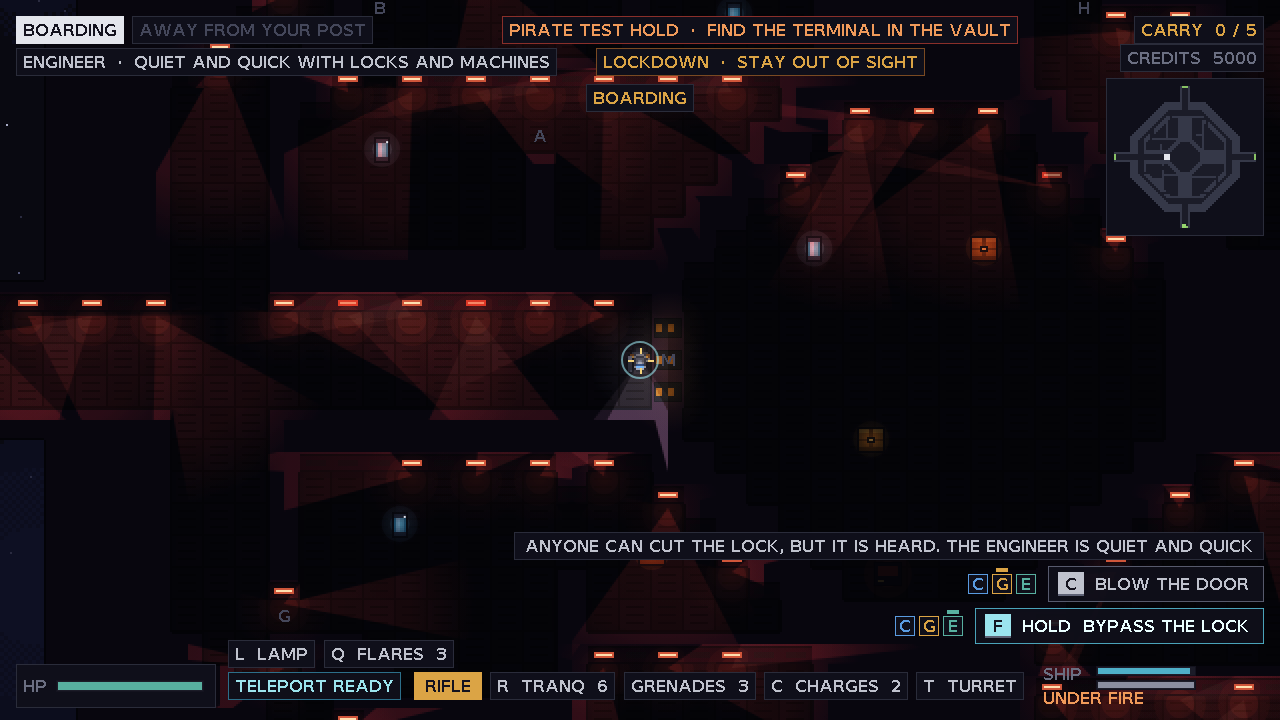
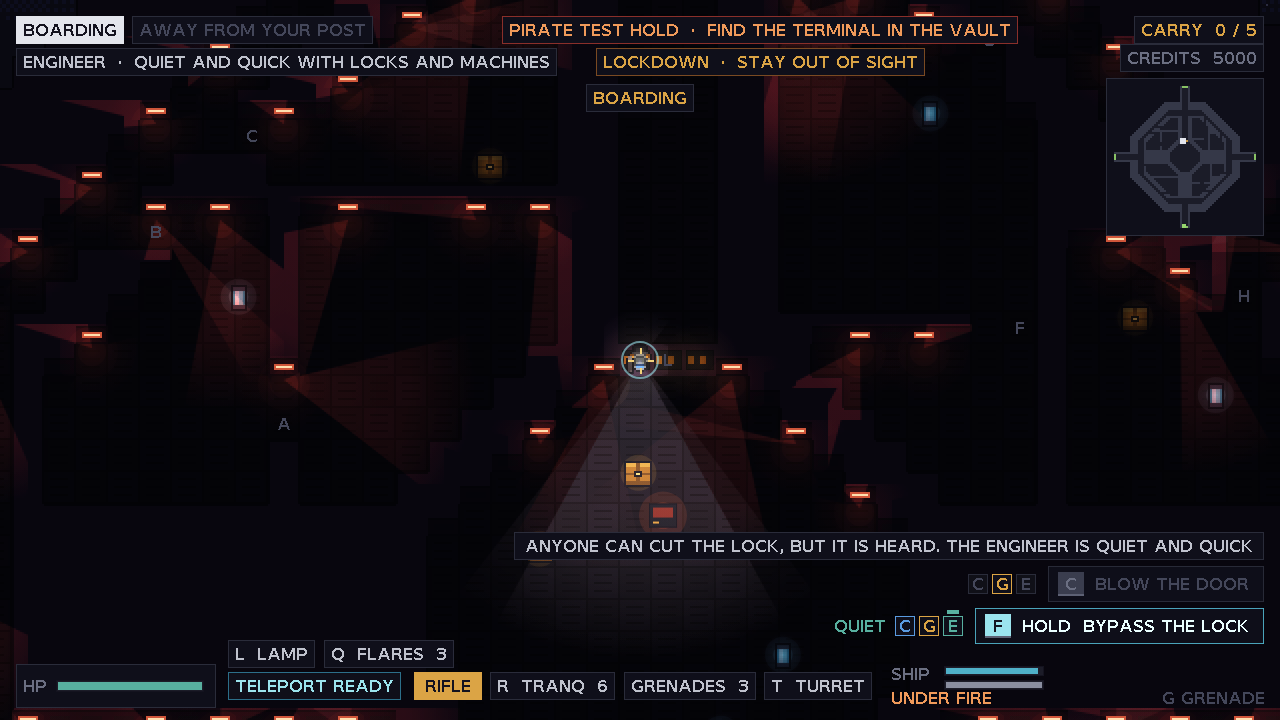
The breaching charge is the Gunner's and is used up, and the best post's gain is said in a word
A charge is bought one at a time, carried in by the Gunner alone and gone once it has
opened a door. The others see that the door can be blown, and by whom. Beside the mark
of the post that does a thing best stands what it gains: quiet at the vault door,
faster at the terminal.

Claude-Session: https://claude.ai/code/session_019KYzr9o25siTo4kX1Z2A88

diff --git a/src/actions.js b/src/actions.js
@@ -9,6 +9,7 @@
 //   off       it cannot be done right now. The label says why
 //   who       which posts can do it: 'can', 'best' for the post that is better at it than the others, and
 //             'no' for a post that cannot. It is shown beside the button, see WHO below
+//   gain      one or two words on what the post that is best at it gains, shown beside its mark
 //   tip       a line that says what it is, shown the first times the button comes up
 import { POSTS } from './sim/players.js';
 import { THINGS } from './sim/kinds.js';
@@ -16,6 +17,7 @@ import { dockCandidate } from './sim/ship.js';
 import { findDock, nameOf } from './sim/things.js';
 import { isTrading } from './sim/stations.js';
 import { useTarget } from './sim/boarding.js';
+import { level } from './sim/upgrades.js';
 
 const LOCK_VERB = { pipes: 'BYPASS', code: 'BYPASS', dial: 'PICK' };
 // Who can do what, for the things that are not the same for every post. [captain, gunner, engineer].
@@ -29,9 +31,12 @@ const WHO = {
   turn: [only('engineer'), 'ONLY THE ENGINEER CAN TURN A TURRET TO YOUR SIDE'],
   disarm: [only('engineer'), 'ONLY THE ENGINEER CAN SWITCH OFF AN ALARMED DOOR'],
   steady: [only('engineer'), 'ONLY THE ENGINEER CAN STEADY THE REACTOR'],
-  cut: [best('engineer'), 'ANYONE CAN CUT THE LOCK, BUT IT IS HEARD. THE ENGINEER IS QUIET AND QUICK'],
-  blow: [best('gunner'), 'A CHARGE OPENS THE DOOR AT ONCE AND WAKES EVERYONE. THE GUNNER ALWAYS HAS ONE'],
-  takeover: [best('engineer'), 'ANYONE CAN TAKE THE STATION OVER. THE ENGINEER IS QUICKER'],
+  cut: [best('engineer'), 'ANYONE CAN CUT THE LOCK, BUT IT IS HEARD. THE ENGINEER IS QUIET AND QUICK', 'QUIET'],
+  blow: [
+    only('gunner'),
+    'ONLY THE GUNNER CARRIES THE CHARGE. IT OPENS THE DOOR AT ONCE, WAKES EVERYONE AND IS USED UP',
+  ],
+  takeover: [best('engineer'), 'ANYONE CAN TAKE THE STATION OVER. THE ENGINEER IS QUICKER', 'FASTER'],
   takedown: [ALL, 'A SLEEPING GUARD THAT IS TAKEN DOWN IS OUT FOR THE REST OF THE BOARDING'],
 };
 // Every action has the same shape. `more` holds what differs from a plain press of a key.
@@ -46,6 +51,7 @@ const act = (name, code, label, short, more = {}) => ({
   off: false,
   who: (WHO[name] || [ALL])[0],
   tip: (WHO[name] || [])[1] || null,
+  gain: (WHO[name] || [])[2] || null,
   ...more,
 });
 const use = (name, label, short, more = {}) => act(name, 'KeyF', label, short, { main: true, ...more });
@@ -58,7 +64,11 @@ function dockedUse(state, me, t) {
     if (t.breakin && t.breakin.started) return use('lock', 'BACK TO THE LOCK', 'LOCK');
     const code = THINGS[t.kind].lock === 'code';
     const more = code
-      ? { who: best('engineer'), tip: 'THE ENGINEER FINDS THE CODE. ANYONE CAN ENTER IT AT THE LOCK' }
+      ? {
+          who: best('engineer'),
+          tip: 'THE ENGINEER FINDS THE CODE. ANYONE CAN ENTER IT AT THE LOCK',
+          gain: 'FINDS THE CODE',
+        }
       : {};
     return use('lock', LOCK_VERB[THINGS[t.kind].lock] + ' THE LOCK', 'LOCK', more);
   }
@@ -116,7 +126,10 @@ function away(state, me) {
       }),
     );
   }
+  // The charge is the Gunner's. The others see that the ship has one, and who can use it.
+  const carried = level(state.ship, 'charge') > 0;
   if (av.charges > 0) list.push(act('blow', 'KeyC', 'BLOW THE DOOR', 'BLOW', { main: !at.cut }));
+  else if (carried && av.role !== 'gunner') list.push(act('blow', 'KeyC', 'BLOW THE DOOR', 'BLOW', { off: true }));
   return list;
 }
 

diff --git a/tests/sim.test.js b/tests/sim.test.js
@@ -1823,10 +1823,13 @@ test('boarding gear changes what a boarder can do', () => {
   assert.equal(teleCooldown(s.ship), B.COIL_TELEPORT);
   run(s, {}, 0.1);
   assert.equal(s.players[0].hp, B.CREW_HP + B.SUIT_HP);
+  // The ship carries one breaching charge at a time, and it is the Gunner who takes it along.
+  assert.equal(blockedReason(s, 'charge'), 'CARRIED');
+  s.players[0].post = 'gunner';
   step(s, { system: { board: [0] } }, DT);
   const it = w.interior,
     av = it.avatars[0];
-  assert.equal(av.charges, B.CHARGES);
+  assert.equal(av.charges, 1);
   assert.equal(av.sentries, 1);
   // The breaching charge opens the vault at once and alerts the guards.
   const door = it.rooms[it.vault].door;
@@ -1835,6 +1838,8 @@ test('boarding gear changes what a boarder can do', () => {
   step(s, { away: { 0: { charge: true } } }, DT);
   assert.equal(it.doorOpen, true);
   assert.ok(it.guards.every((g) => g.mode === 'alert'));
+  assert.equal(av.charges, 0, 'the charge is used up');
+  assert.equal(blockedReason(s, 'charge'), null, 'and a new one can be bought');
   // The deployable turret shoots a guard on its own.
   it.turrets = [];
   it.guards = it.guards.slice(0, 1);
@@ -1940,7 +1945,7 @@ test('test mode starts with everything installed, room for it, credits and all c
   const s = createState(1, { test: true });
   assert.equal(s.test, true);
   for (const id of Object.keys(CATALOG))
-    assert.ok(['INSTALLED', 'MAXED', 'OWNED'].includes(blockedReason(s, id)), id + ' is in place');
+    assert.ok(['INSTALLED', 'MAXED', 'OWNED', 'CARRIED'].includes(blockedReason(s, id)), id + ' is in place');
   assert.ok(slotsUsed(s.ship, 'hard') <= s.ship.slots.hard && slotsUsed(s.ship, 'system') <= s.ship.slots.system);
   assert.equal(s.ship.hull, hullMax(s.ship));
   assert.equal(s.ship.fuel, fuelMax(s.ship));
@@ -2617,12 +2622,19 @@ test('the post a boarder left makes a difference inside', () => {
   assert.ok(eng.t < cap.t, 'the Engineer is quicker');
   assert.equal(eng.mood, 'lockdown', 'and is not heard');
   assert.equal(cap.mood, 'alarm', 'cutting the lock is heard');
-  // A Gunner always brings a charge.
-  const s = quiet(createState(1));
-  s.players[0].post = 'gunner';
-  const w = dockAt(s);
-  step(s, { system: { board: [0] } }, DT);
-  assert.equal(w.interior.avatars[0].charges, 1);
+  // The breaching charge is the Gunner's: nobody else takes it along, and without one bought there is none.
+  for (const [post, bought, carried] of [
+    ['gunner', 1, 1],
+    ['gunner', 0, 0],
+    ['engineer', 1, 0],
+  ]) {
+    const s = quiet(createState(1));
+    s.players[0].post = post;
+    s.ship.mods.charge = bought;
+    const w = dockAt(s);
+    step(s, { system: { board: [0] } }, DT);
+    assert.equal(w.interior.avatars[0].charges, carried, `${post} with ${bought} bought`);
+  }
 });
 
 test('the Engineer steadies the reactor of a wreck and buys the crew more time, once', () => {

diff --git a/src/sim/boarding.js b/src/sim/boarding.js
@@ -10,7 +10,7 @@ import { makeVessel } from './vessels.js';
 import { PIRATE } from './sides.js';
 import { playerById, leavePost, returnToPost } from './players.js';
 import { takeOver, isTrading } from './stations.js';
-import { has, fuelMax, crewHpMax, carryMax, rifleDmg, teleCooldown, breakinBonus } from './upgrades.js';
+import { has, level, fuelMax, crewHpMax, carryMax, rifleDmg, teleCooldown, breakinBonus } from './upgrades.js';
 import { damageShip } from './damage.js';
 import { createBreakin, stepBreakin } from './breakin.js';
 import { clamp, forward, headingTo, angleDiff, turnToward, dist, rand, randRange, TAU } from './util.js';
@@ -356,7 +356,8 @@ export function tryBoard(state, playerId) {
     cool: 0,
     grenades: B.GRENADES,
     // A Gunner always brings one charge, with or without the ones that are bought.
-    charges: (has(ship, 'charge') ? B.CHARGES : 0) + (player.backTo === 'gunner' ? 1 : 0),
+    // Only the Gunner carries the ship's breaching charge.
+    charges: player.backTo === 'gunner' ? level(ship, 'charge') : 0,
     sentries: has(ship, 'sentry') ? 1 : 0,
     flares: has(ship, 'flare') ? B.FLARES : 0,
     lamp: true,
@@ -621,8 +622,9 @@ function workVaultDoor(state, it, av, cmd, dt) {
   const door = it.rooms[it.vault].door;
   const away = dist(av.x, av.y, door.x, door.y);
   if (cmd.charge && av.charges > 0 && away < 28) {
-    // A breaching charge opens the door at once, and every guard comes running.
+    // A breaching charge opens the door at once, and every guard comes running. It is used up.
     av.charges--;
+    state.ship.mods.charge = Math.max(0, level(state.ship, 'charge') - 1);
     openVault(it);
     it.fx.push({ type: 'boom', x: door.x, y: door.y, t: 0, dur: 0.45, size: 24 });
     for (const g of it.guards) alertGuard(g, door);

diff --git a/src/sim/upgrades.js b/src/sim/upgrades.js
@@ -119,12 +119,14 @@ export const CATALOG = {
   rifle: { tab: 'armory', name: 'RIFLE UPGRADE', slot: null, price: 120, levels: 2, desc: 'BOARDERS HIT HARDER' },
   pack: { tab: 'armory', name: 'CARGO PACK', slot: null, price: 140, desc: 'CARRY TWO MORE THINGS PER TRIP' },
   suit: { tab: 'armory', name: 'SUIT ARMOR', slot: null, price: 160, desc: 'BOARDERS TAKE MORE BEFORE THE TELEPORT' },
+  // The one thing in the armory that is used up: the ship carries one at a time, and buys a new one after.
   charge: {
     tab: 'armory',
-    name: 'BREACHING CHARGES',
+    name: 'BREACHING CHARGE',
     slot: null,
-    price: 130,
-    desc: 'C BLOWS A VAULT DOOR, BUT WAKES EVERYONE',
+    price: 50,
+    used: true,
+    desc: 'THE GUNNER BLOWS A VAULT DOOR OPEN WITH C  ·  WAKES EVERYONE  ·  USED UP',
   },
   tranq: {
     tab: 'armory',
@@ -167,7 +169,10 @@ export function blockedReason(state, id, discount = 1) {
     ship = state.ship,
     lv = level(ship, id);
   if (!item) return 'UNKNOWN';
-  if (lv >= (item.levels || 1)) return item.levels ? 'MAXED' : item.tab === 'armory' ? 'OWNED' : 'INSTALLED';
+  if (lv >= (item.levels || 1)) {
+    if (item.used) return 'CARRIED';
+    return item.levels ? 'MAXED' : item.tab === 'armory' ? 'OWNED' : 'INSTALLED';
+  }
   if (item.needs && !has(ship, item.needs)) return 'NEEDS ' + CATALOG[item.needs].name;
   if (item.slot && lv === 0 && slotsUsed(ship, item.slot) + item.size > ship.slots[item.slot])
     return item.slot === 'hard' ? 'NO FREE HARDPOINT' : 'NO FREE SYSTEM SLOT';

diff --git a/tests/actions.test.js b/tests/actions.test.js
@@ -101,8 +101,17 @@ test('at a vault door the lock can be cut by holding, or blown with a charge', (
   av.y = door.y + 8;
   assert.deepEqual(names(s, 'away'), ['cut']);
   assert.equal(offered(s, 'away')[0].hold, true);
-  av.charges = 1;
+  // With a charge on the ship, the others see that the door can be blown, but not by them.
+  s.ship.mods.charge = 1;
   assert.deepEqual(names(s, 'away'), ['cut', 'blow']);
+  const shownTo = offered(s, 'away')[1];
+  assert.equal(shownTo.off, true);
+  assert.deepEqual(shownTo.who, { captain: 'no', gunner: 'can', engineer: 'no' });
+  assert.equal(offered(s, 'away')[0].gain, 'QUIET', 'what the Engineer gains at the lock is said in a word');
+  av.charges = 1;
+  av.role = 'gunner';
+  assert.deepEqual(names(s, 'away'), ['cut', 'blow']);
+  assert.equal(offered(s, 'away')[1].off, false);
   for (let i = 0; i < 30; i++) step(s, { away: { 0: { use: true } } }, DT);
   const cut = offered(s, 'away')[0];
   assert.ok(cut.progress > 0 && cut.progress < 1, 'the button shows how far the cutting has come');

diff --git a/src/render/actions.js b/src/render/actions.js
@@ -307,7 +307,11 @@ function drawWho(ctx, font, b) {
     const can = who[post] !== 'no';
     rect(ctx, x, b.y + 4, 10, 10, can ? COL.panel : '#101018', can ? color : COL.line);
     font.draw(ctx, letter, x + 5, b.y + 6, can ? color : COL.faint, { align: 'c' });
-    if (who[post] === 'best') rect(ctx, x + 2, b.y + 1, 6, 2, color);
+    if (who[post] === 'best') {
+      rect(ctx, x + 2, b.y + 1, 6, 2, color);
+      // What that post gains, in a word or two.
+      if (b.action.gain) font.draw(ctx, b.action.gain, b.x - 45, b.y + 6, color, { align: 'r' });
+    }
   });
 }
 // How many times each kind of button has come up, to show its line of explanation only the first times.

diff --git a/src/render/shop.js b/src/render/shop.js
@@ -59,7 +59,7 @@ export function shopRows(state, st, tab) {
     const item = CATALOG[id],
       why = blockedReason(state, id, k),
       lv = level(ship, id);
-    const owned = why === 'INSTALLED' || why === 'MAXED' || why === 'OWNED';
+    const owned = why === 'INSTALLED' || why === 'MAXED' || why === 'OWNED' || why === 'CARRIED';
     rows.push({
       x: RX,
       y: PY + 66 + i * 15,

diff --git a/src/sim/balance.js b/src/sim/balance.js
@@ -378,7 +378,6 @@ export const B = {
   SUIT_HP: 50,
   COIL_TELEPORT: 25,
   HACK_BONUS: 1.4,
-  CHARGES: 2,
   SENTRY_HP: 40,
   SENTRY_RANGE: 190,
   SENTRY_DMG: 6,

diff --git a/BACKLOG.md b/BACKLOG.md
@@ -117,8 +117,6 @@ Prioritet: Hög, Medel, Låg.
 - D-189 – Ekonomin delas mellan rollerna, så att varje roll bestämmer över sina egna förbättringar
 
 **AE** – strong model, medium level – Förfina rollerna
-- F-190 – Märkena bredvid knappen visar också vad den bästa posten vinner, till exempel att Engineer är tyst vid valvdörren
-- F-191 – Sprängladdningar köps, och bara Gunner kan använda dem
 - F-192 – En ryggsäck som köps och uppgraderas, och som avgör hur mycket utrustning och hur många turrets man får med sig
 
 **AF** – strong model, high level – Förslag: permanenta prylar och sådant som förbrukas
@@ -165,8 +163,6 @@ Väntar på användaren: F-091 (mining laser) tas upp när F-085 är provad. D-0
 | D-172 | Se över vilka minispel man blir straffad av när man misslyckas, och hur. Användaren 2026-11-15, med fel kod som exempel. Läget i dag: i rörspelet på vrak sprängs vraket när tiden går ut, och skeppet tar 60 i skada om det ligger dockat. I kodspelet på stationer kostar en fel kod 6 sekunder, och går tiden ut skickar stationen ut två jaktskepp och låset återställs. I visarspelet på pods slår poden larm efter tre missar eller när tiden går ut, och nästa piratvåg kommer direkt. Att besvara: är straffen lagom och begripliga, ska ett enstaka misstag kosta något eller bara ett helt misslyckande, och ska spelaren få veta priset i förväg. Görs tillsammans med F-171 (Engineer hackar fram koden) och F-163 (låset med ringar), eftersom båda ändrar hur låsen fungerar Förslaget är framtaget 2026-11-15 i docs/proposal-economy.md och väntar på användarens svar på frågorna där. Läget 2026-11-15: en del är bestämd och byggd. Ett misslyckat lås på ett vrak spränger inte längre vraket direkt, utan kostar 40 sekunder av reaktortiden, och det tredje misslyckandet spränger det. Resten väntar på svaren i docs/proposal-economy.md | Väntar på användaren |
 | F-173 | Sköld vid dockning. Användaren 2026-11-15: saker skeppet dockar med som är fiender ska inte ge en sköldboost. En station som är under attack ger sköld tills de som attackerar lyckas hacka mainframen. Läget i dag: allt skeppet dockar med ger den extra skölden, även en fientlig station. Första delen går att bygga nu. Andra delen kräver anfallen på stationer med mainframe (F-109, F-121 till F-123), och fram till dess ger en station under attack sköld så länge den inte har fallit. Agentens anmärkning: den som spelar ensam och bordar en fientlig station lämnar då skeppet utan extra sköld, vilket är avsikten Läget 2026-11-15: första delen är byggd. Ett skepp som ligger dockat vid en fientlig station får ingen extra sköld, och den som finns försvinner om stationen blir fientlig. Vrak och pods ger sköld som förut. Kvar: att en station under attack slutar ge sköld när angriparna hackat mainframen | Delvis byggd |
 | D-186 | Skeppets dator i praktiken. Användaren 2026-11-15: vi behöver gå igenom hur det skulle fungera i praktiken först, och göra brainstorming innan några förändringar görs. Gäller F-034 (autopilot på lediga poster), som är parkerad och har agentens första förslag. Inget byggs förrän genomgången är gjord Besked 2026-11-15: det ska synas när datorn sköter något. När man startar en omgång väljer man vilka roller datorn får sköta, och som standard är det ingen. Då kan spelare i co-op inte bara slå på datorn och slippa göra sitt jobb. Öppet: om datorn tar en tillåten post av sig själv när ingen sitter där, om valet går att ändra under omgången, om datorn bestämmer själv eller bara utför det man pekat ut, hur mycket sämre den är än en människa, och vad den gör medan besättningen bordar Besked 2026-11-15: en roll som datorn sköter är öppen för alla spelare att handla åt i butiken, se D-189 | Ej påbörjad |
-| F-190 | Visa vad bonusen består av. Användaren 2026-11-15: kan rutan med rollindikation visa att Engineer har en fördel när det gäller ljud vid dörren? I dag syns det bara delvis: strecket över E säger att Engineer gör det bäst, raden ovanför förklarar varför men visas bara de tre första gångerna, och knappen säger LOUD för de andra posterna. Agentens förslag, inte bestämt: ett kort ord intill märket för den som gör det bäst, som alltid syns, till exempel QUIET vid valvdörren, FASTER vid övertagandet och FREE CHARGE för Gunner. Samma sak för alla moment där en post har en bonus. Bygger på F-179 | Ej påbörjad |
-| F-191 | Sprängladdningar är Gunners. Användaren 2026-11-15: i dagsläget får laddningar bli något man köper, och bara Gunner kan använda dem. I dag har Gunner alltid en gratis laddning med sig, och har skeppet köpt laddningar kan vem som helst som går in spränga valvdörren. Ändringen: ingen gratis laddning, laddningarna köps i butiken som förut, och bara den som lämnade Gunners post kan använda dem. Märkena bredvid knappen (F-179) ska då visa G som den enda som kan, och F-190 behöver inget ord för en gratis laddning. Ensam: byt till Gunner innan du går in, annars får låset skäras upp eller kopplas förbi. Hör ihop med F-113 och F-181 Besked 2026-11-15: det är bra att man måste ha köpt en laddning, det kräver mer planering. Butiken måste säga vad laddningen är till för. Kanske ska man bara kunna ha en åt gången. Fler får man plats med genom en ryggsäck, se F-192. Besked 2026-11-15: laddningen förbrukas, så att man måste hålla koll på sitt inventory. I dag ger köpet två per bordning, för alltid | Ej påbörjad |
 | F-192 | Ryggsäck för utrustning. Användaren 2026-11-15: för att bära mer saker kan man köpa en backpack och sedan uppgradera den så att den håller mer. Den avgör även hur många turrets man kan ta med. Utan ryggsäck får man med sig lite, till exempel en laddning. I dag finns CARGO PACK i butiken, som låter en bordare bära två byten till per tur, och antalet granater, flares, pilar och turrets är fasta tal. Öppet: om ryggsäcken gäller både utrustning och byte eller bara utrustning, om den ersätter CARGO PACK, vilka saker som tar plats i den (laddningar, turrets, granater, flares, pilar), hur många nivåer den har, och om den är en per skepp eller en per bordare. Hör ihop med F-191 och F-188 (uppgraderingar per kategori och roll) | Ej påbörjad |
 | D-193 | Analys: permanenta prylar och sådant som förbrukas. Användaren 2026-11-15: gå igenom vilka prylar som är permanenta och eventuellt kan uppgraderas och hur, samt vilka objekt som förbrukas. En framtida analys, inget byggs. I dag är nästan allt i butiken permanent: ett köp ger granater, flares, pilar, laddningar och en turret på nytt vid varje bordning. Bara bränsle, reparation och krediter går åt. Analysen ska ge en lista över varje sak med förslag på om den är permanent, uppgraderbar eller förbrukas, vad den kostar att fylla på, var man ser vad man har, och hur det hänger ihop med ryggsäcken (F-192), laddningarna (F-191), uppgraderingar per roll (F-188) och ekonomin (D-189, D-104) | Ej påbörjad |
 | F-194 | Solceller som laddar bränslet. Användaren 2026-11-15: som i Escape Velocity, där man kan köpa solceller som laddar bränslet. Användaren tror mer på den vägen än på att bränsle kommer tillbaka av sig självt. Agentens tolkning, inte bekräftad: solcellerna är en uppgradering man köper och som fyller på långsamt, medan asteroiderna (F-085) är vägen ut för den som inte har köpt dem. Öppet: hur fort de laddar, om de tar en slot, om de laddar fortare nära en stjärna, och om man kan börja med en enkel variant. Namn och utseende ska vara egna. Hör ihop med D-100 | Ej påbörjad |
@@ -355,3 +351,5 @@ Väntar på användaren: F-091 (mining laser) tas upp när F-085 är provad. D-0
 | F-179 | Vem kan göra vad. Bredvid varje knapp som dyker upp visas de tre posterna som små märken: tänd för den som kan, släckt för den som inte kan, och ett streck över den som gör det bäst. De tre första gångerna ett moment dyker upp visas också en rad som förklarar det. Inte byggt: en inställning som stänger av raden | 2026-11-15 |
 | F-200 | Asteroider är det enda skeppet krockar med. Stationer, vrak, pods och andra skepp flyger man över. Skott träffar stationer och skepp som förut. Asteroider går att skjuta sönder: en stor blir två mellanstora, en mellanstor två små, och en liten försvinner. De ligger i ett bälte runt mitten och i två till fyra tätare fält, aldrig närmare en station än 330, och nya kommer till utom synhåll så att fälten inte tar slut. Testläget har ett fält nära starten. Malm och bränsle ur asteroider kommer i steg 2 (F-085) | 2026-11-15 |
 | F-199 | Ingen fog of war inuti ett system. Kartan visar systemet som en rund yta, det skeppet och dess verktyg ser just nu, och det man har sett som det var då. En scanning (Q) lägger allt i systemet på kartan på en gång, som en bild av hur det är just då, och visar asteroidfälten. Det som ändras efteråt syns först när man tittar eller scannar igen. Inte byggt än: att scanningen kostar bränsle (steg 2), och sondens och bojens nya uppgifter mot andra system (steg 3). Sonder och bojar ser tills vidare som förut | 2026-11-15 |
+| F-190 | Vad bonusen består av. Intill märket för den post som gör ett moment bäst står nu ett eller två ord om vad den vinner: QUIET vid valvdörren, FASTER vid övertagandet och FINDS THE CODE vid stationens lås. Orden syns alltid, också efter att den förklarande raden har slutat visas | 2026-11-15 |
+| F-191 | Sprängladdningen är Gunners. Den köps i butiken för 50 krediter, skeppet bär en åt gången, och den förbrukas när den används. Bara den som lämnade Gunners post tar med den in. De andra ser knappen för att spränga dörren när skeppet har en laddning, men släckt, och märkena visar att bara Gunner kan. Butiken säger vad laddningen är till för och att den förbrukas. Den gratis laddning Gunner hade är borta | 2026-11-15 |

diff --git a/HANDOFF.md b/HANDOFF.md
@@ -284,7 +284,7 @@ Bordning av stationer, besked från användaren (2026-11-14, inget av det är by
 - Smygande (byggt 2026-11-15, F-102, F-107, F-120): en fientlig station är i lockdown när man kommer in (`it.mood`), mörk med röda ljus, och går till larm när besättningen upptäcks. Vakter har synfält, fasta rundor (`g.route`) eller en post där de ser sig om (`g.looks`), och rapporterar vad de hittar till `stepInterior`. Ljus spelar roll för vad de ser (`isLit` i guards.js räknar flares och bordarnas lampor, inte nödlamporna). Inte byggt än: vänliga och neutrala stationers personaldel, att den som är inne blir kvar när en station blir fientlig, och inställningen som dämpar rörligt ljus.
 - Turrets och kameror inomhus (byggt 2026-11-15, F-115, F-108, F-183, F-116): en turret vaktar en smal kon och följer målet inom en bredare vinkel när den vaknat. På stationer går den inte att förstöra, bara att slå ut med en granat eller vända med Engineer. I vrak går den att skjuta sönder, eftersom beslutet gällde stationer. Kameror sveper och ger besättningen bort men skadar ingen. Besättningens egna turrets går bara att sätta ut i strid och försvinner efteråt. Bordaren minns vilken post hen lämnade (`av.role`), och det avgör vad bara en viss post kan göra.
 - Roller vid bordning (byggt 2026-11-15, F-113, F-181, F-182, F-158, F-179): rollen är den post man lämnade. Gunner gör mer skada med geväret och har alltid en sprängladdning. Engineer är tyst och snabbare med lås och övertagande, vänder turrets, stänger av larmade dörrar och stabiliserar reaktorn i ett vrak (en minut till, en gång). Captain har radarn och ser vad valvet innehåller. Att skära upp valvdörren hörs nu av vakterna för alla utom Engineer. Larmade dörrar stänger aldrig vägen till valvet. Bredvid varje knapp visas vilka poster som kan göra momentet och vem som gör det bäst, och en förklarande rad de tre första gångerna. Avvikelser: vakter går inte genom dörrar, så de utlöser inga larm, och raden går inte att stänga av än.
-- Sprängladdningar (besked 2026-11-15, inte byggt, F-191): laddningar ska köpas, och bara Gunner ska kunna använda dem. Den gratis laddning Gunner har i dag tas då bort. Laddningen förbrukas, så att man måste hålla koll på sitt inventory.
+- Sprängladdningar (byggt 2026-11-15, F-191): laddningen köps, skeppet bär en åt gången, den förbrukas, och bara Gunner tar med den in. Den är första saken i butiken som förbrukas: `used: true` i katalogen, och antalet ligger i `ship.mods.charge`. Fler än en väntar på ryggsäcken (F-192).
 - Världens riktning (besked 2026-11-15, inte byggt): spelet går ut på utforskning och äventyr som binder ihop systemen. Många system i olika storlekar, mindre än dagens, och runda som ett solsystem (F-196). Hoppen med bränsle är viktiga. Slutet är ett anfall på en svår piratbas, och Cruisern blir en del av ett mystiskt uppdrag. Man ska kunna få slut på både bränsle och pengar, och bränsle kommer inte tillbaka av sig självt: vägarna ut är asteroider som ger bränsle (F-085) och solceller som köps (F-194). En systemradar som köps visar grannsystemens sida (F-195). Asteroider finns i varje system, aldrig runt baser, i större samlingar på vissa ställen, och de genereras så att de inte tar slut. Det man bryter ger bränsle och kan säljas. Antalet system väljs i starten och avgör hur många uppdrag det finns före slutet. Systemen har en stjärna i mitten och ett asteroidbälte. Långa sträckor inom ett system tas med en speed boost som laddas upp, går fortare med mer energi till motorerna och nollställs av beskjutning. Samma regel ska gälla hoppet till ett nytt system (F-197). Boosten är samma sak som överladdningen av motorerna, som byggs ut. Det minsta antalet system ska vara fler än fem. Storyn kan låsa upp vägar till dolda system, med en karta från ett uppdrag eller från ett skepp man bordar. System ska gå att upptäcka själv genom att hoppa dit, inte bara genom kartor. Kartan inuti ett system ska provas utan fog of war (F-199): den visar stjärnan och det skeppet ser, en scanning som kostar bränsle visar allt som en engångsbild, en boj håller sitt system uppdaterat och syns på stjärnkartan, och en sond skickas till ett grannsystem. Stjärnkartan visar obesökta grannar som outforskade, och dolda system syns inte förrän storyn lagt till dem. Vid hopp till ett utforskat system väljer Captain vilken bas man anländer vid, med en förvald bas annars (vänlig, sedan neutral, sist fientlig), och i ett okänt system slumpas platsen. Asteroider är det enda skeppet krockar med, och Gunner skjuter bort dem (F-200). Stjärnans mitt spränger ett skepp utan bra sköld, men med mycket sköld klarar man sig. Systemets kant är ett dis av stoft och is som bromsar skeppet tills det stannar. Alla frågor i steg 1 är besvarade, och steget väntar på klartecken. Förslaget i docs/proposal-world.md är omskrivet i fyra steg efter detta, och världen byggs före uppdragen.
 - Världen steg 1, första halvan (byggt 2026-11-15, F-200, F-199, delar av F-196): asteroider är det enda skeppet krockar med och går att skjuta sönder, kartan har ingen fog of war och en scanning visar hela systemet som en bild av nuläget, och de fem systemen har tre storlekar. Kartans skala följer systemets storlek (`fit` i render/map.js). Kvar av steg 1: stjärnan, diset vid kanten och ankomsten, som visas för användaren innan de läggs in. Avvikelser: sonder och bojar ser som förut tills steg 3, och scanningen är gratis tills steg 2.
 - Världen steg 1, andra halvan (byggt 2026-11-15, F-196): stjärnan, diset och ankomsten är byggda. Diset är godkänt tills vidare (2026-11-15) och ska slås på i vanliga spel i nästa körning. **Stjärnan och diset är avstängda i vanliga spel** (`star: false, haze: false` i `createSectors`) och påslagna i testläget, tills användaren har godkänt hur de ser ut. Efter godkännande: sätt båda till true där, och låt testernas `quiet` fortsätta stänga av stjärnan. Testlägets uppställning ligger nu runt `TEST_START`, en bit från stjärnan, i ett system av största storleken. Spelet börjar vid den egna varvsstationen och inte i mitten. Stjärnans styrka (`STAR_DPS`) är satt genom att flyga olika skepp rakt över den. Avvikelser: andra skepp påverkas inte av stjärnan eller diset, och Captain väljer inte bas än.
